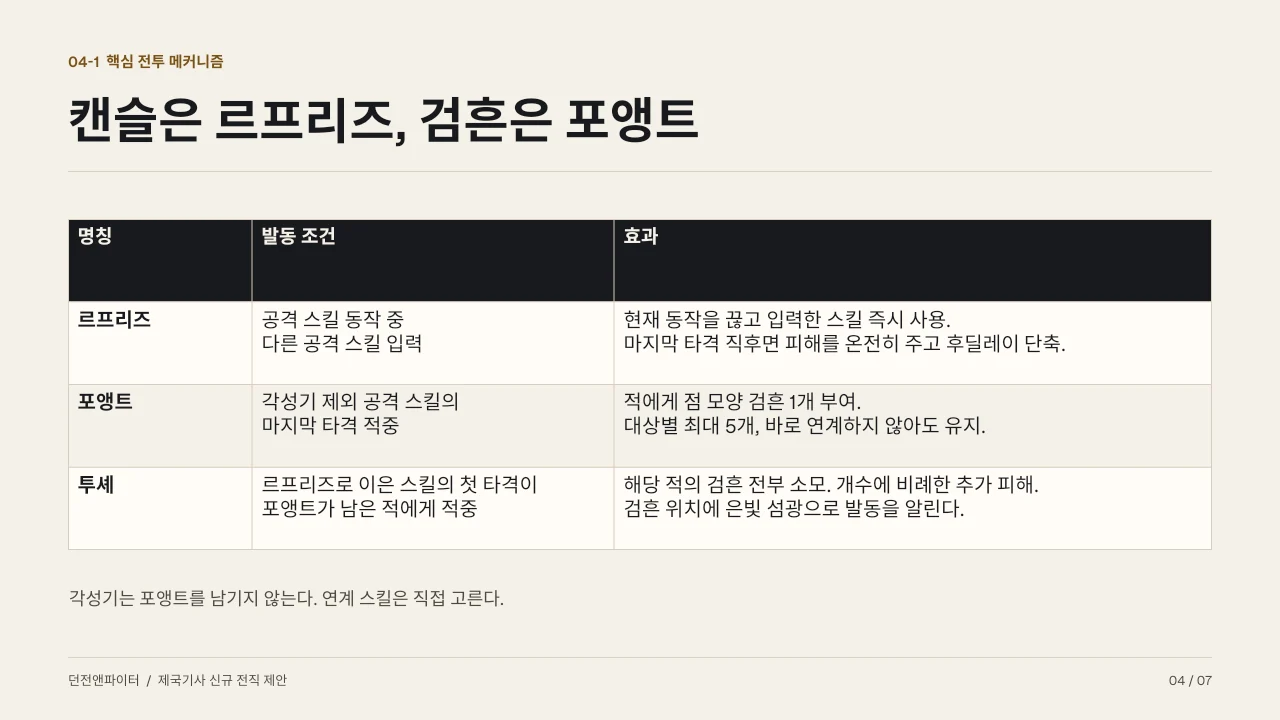
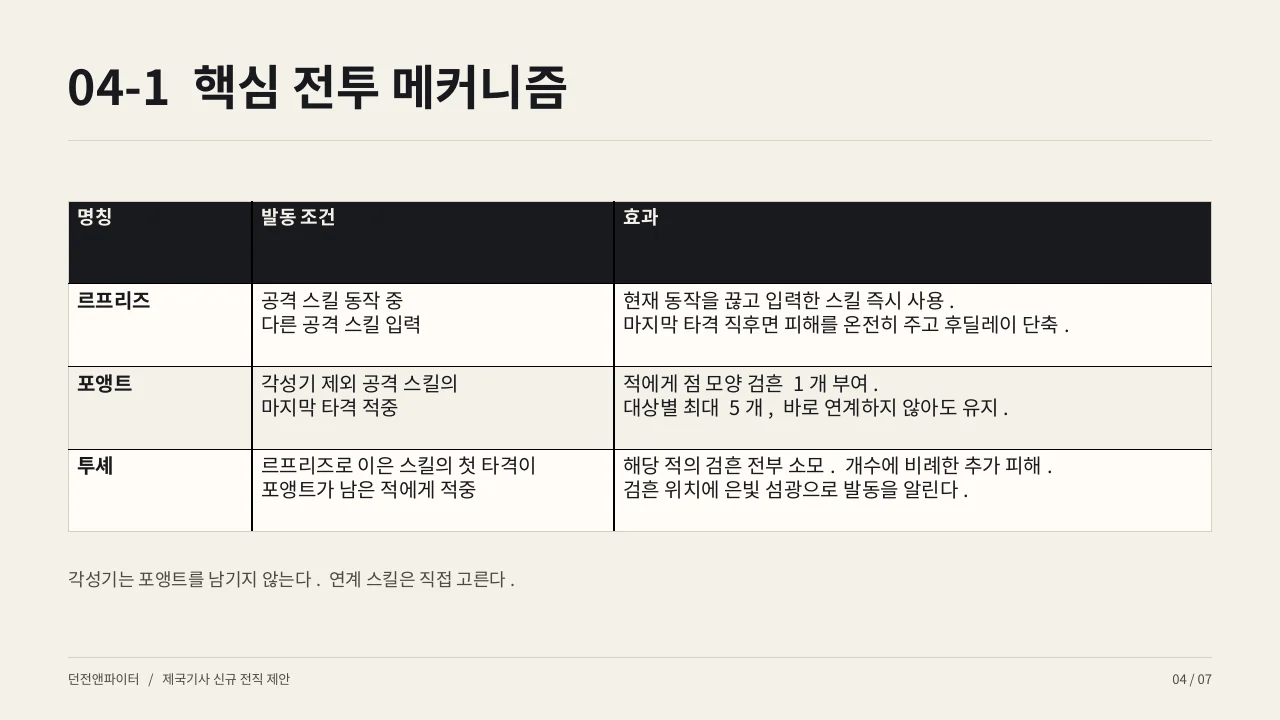
Promote chapter headings to the main slide titles

diff --git a/dnf-breaker.html b/dnf-breaker.html
@@ -16,11 +16,11 @@
   <div class="deck-heading"><div><h2>기획서 슬라이드</h2></div><p>16:9 · 총 11장</p></div>
   <div class="deck-controls" data-controls hidden>
     <button type="button" data-prev aria-label="이전 슬라이드">← 이전</button>
-    <label class="deck-jump"><span class="deck-sr">슬라이드 선택</span><select data-jump aria-label="슬라이드 선택"><option value="0">01 · 캐릭터 개요</option><option value="1">02 · 세계관과 캐릭터 콘셉트</option><option value="2">03 · 비주얼 분석</option><option value="3">04 · 무기 분석</option><option value="4">05 · 타이드 바운드</option><option value="5">06 · 웨이브 브레이커</option><option value="6">07 · 딥 워터 콜</option><option value="7">08 · 전투 콘셉트</option><option value="8">09 · 신규 전직 설계 원칙</option><option value="9">10 · 후속 전직 구상</option><option value="10">11 · 개선 제안</option></select></label>
+    <label class="deck-jump"><span class="deck-sr">슬라이드 선택</span><select data-jump aria-label="슬라이드 선택"><option value="0">01 · 캐릭터 개요</option><option value="1">02 · 세계관 및 캐릭터 콘셉트</option><option value="2">03 · 비주얼 분석</option><option value="3">04 · 무기 분석</option><option value="4">05 · 타이드 바운드</option><option value="5">06 · 웨이브 브레이커</option><option value="6">07 · 딥 워터 콜</option><option value="7">08 · 전투 콘셉트</option><option value="8">09 · 신규 전직 설계 원칙</option><option value="9">10 · 후속 전직 구상</option><option value="10">11 · 개선 제안</option></select></label>
     <button type="button" data-next aria-label="다음 슬라이드">다음 →</button>
     <output data-counter aria-live="polite">1 / 11</output>
   </div>
-  <div class="deck-pages"><article class="deck-slide" data-src="assets/slides/breaker-01.webp" data-label="캐릭터 개요" aria-label="1장 캐릭터 개요"><figure><a href="assets/slides/breaker-01.webp" target="_blank" rel="noopener" aria-label="캐릭터 개요 슬라이드 원본 이미지, 새 탭"><img src="assets/slides/breaker-01.webp" width="1280" height="720" loading="eager" decoding="async" alt="캐릭터 개요 슬라이드"></a><figcaption>01 / 캐릭터 개요</figcaption></figure><details class="deck-transcript"><summary>슬라이드 텍스트로 읽기</summary><ul><li>01  캐릭터 개요</li><li>브레이커</li><li>제국기사의 해상 돌파 전직</li><li>전투 역할</li><li>물리 퍼센트 딜러 · 주 스탯 힘</li><li>전용 무기 앵커 · 조작 난도 쉬움</li><li>분석 목적</li><li>해상 전투 설정이 무기, 스킬 동작,</li><li>플레이어 판단에 반영되는 방식을 살핀다.</li><li>브레이커   →   블랙 쉽   →   세이렌   →   眞 브레이커</li></ul></details></article><article class="deck-slide" data-src="assets/slides/breaker-02.webp" data-label="세계관과 캐릭터 콘셉트" aria-label="2장 세계관과 캐릭터 콘셉트"><figure><a href="assets/slides/breaker-02.webp" target="_blank" rel="noopener" aria-label="세계관과 캐릭터 콘셉트 슬라이드 원본 이미지, 새 탭"><img src="assets/slides/breaker-02.webp" width="1280" height="720" loading="lazy" decoding="async" alt="세계관과 캐릭터 콘셉트 슬라이드"></a><figcaption>02 / 세계관과 캐릭터 콘셉트</figcaption></figure><details class="deck-transcript"><summary>슬라이드 텍스트로 읽기</summary><ul><li>02  세계관 및 캐릭터 콘셉트</li><li>격류지대에서 익힌 해상 돌파</li><li>거센 물살과 암초가 있는 해역에서, 기회가 보이면 바로 뛰어들어 일격을 가한다.</li><li>격류지대 배치</li><li>골든 니들에 들어간 뒤</li><li>데 로스 제국의 격류지대에 배치된다.</li><li>해상 훈련</li><li>디딜 곳이 흔들리는 환경에서</li><li>해상전에 필요한 전술을 익힌다.</li><li>함선 격파</li><li>짧게 열린 기회를 놓치지 않고</li><li>강력한 일격으로 적선을 파괴한다.</li><li>제국과의 관계</li><li>상부에 충성하던 병사에서, 골든 니들 해체 뒤</li><li>자신이 바라는 제국을 위해 행동하는 기사로 바뀐다.</li><li>성격과 전투</li><li>자신감 있고 쾌활하며, 망설이기보다</li><li>적진에 직접 뛰어드는 호쾌함이 드러난다.</li></ul></details></article><article class="deck-slide" data-src="assets/slides/breaker-03.webp" data-label="비주얼 분석" aria-label="3장 비주얼 분석"><figure><a href="assets/slides/breaker-03.webp" target="_blank" rel="noopener" aria-label="비주얼 분석 슬라이드 원본 이미지, 새 탭"><img src="assets/slides/breaker-03.webp" width="1280" height="720" loading="lazy" decoding="async" alt="비주얼 분석 슬라이드"></a><figcaption>03 / 비주얼 분석</figcaption></figure><details class="deck-transcript"><summary>슬라이드 텍스트로 읽기</summary><ul><li>02  세계관 및 캐릭터 콘셉트  /  비주얼 분석</li><li>의상과 색 대비가 만드는 인상</li><li>상체 실루엣</li><li>청록 계열의 밀착 의상이 신체의 선과 자세를 드러낸다.</li><li>하체의 시각적 무게</li><li>과장된 무릎 장식이 간결한 상체와 대비된다.</li><li>색 분리</li><li>붉은 머리와 청록색 의상으로 형태가 또렷이 나뉜다.</li><li>등의 흉터</li><li>공식 설정상 제국에 바치는 맹세와 자부심을 뜻한다.</li><li>공식 원화 디자인 시트 · 외형이 전달하는 인상은 분석자의 해석</li></ul></details></article><article class="deck-slide" data-src="assets/slides/breaker-04.webp" data-label="무기 분석" aria-label="4장 무기 분석"><figure><a href="assets/slides/breaker-04.webp" target="_blank" rel="noopener" aria-label="무기 분석 슬라이드 원본 이미지, 새 탭"><img src="assets/slides/breaker-04.webp" width="1280" height="720" loading="lazy" decoding="async" alt="무기 분석 슬라이드"></a><figcaption>04 / 무기 분석</figcaption></figure><details class="deck-transcript"><summary>슬라이드 텍스트로 읽기</summary><ul><li>03  무기 분석</li><li>하나의 앵커, 두 가지 동작</li><li>CHAIN  /  사슬과 고리</li><li>몸을 끌어당겨 적에게 붙는다</li><li>BLADE  /  거대한 날</li><li>무게를 실어 넓은 범위를 벤다</li><li>무거운 무기에 어울리는 타격감을 유지하면서,</li><li>사슬을 이동에 써 다음 일격이 닿을 위치로 들어간다.</li></ul></details></article><article class="deck-slide" data-src="assets/slides/breaker-05.webp" data-label="타이드 바운드" aria-label="5장 타이드 바운드"><figure><a href="assets/slides/breaker-05.webp" target="_blank" rel="noopener" aria-label="타이드 바운드 슬라이드 원본 이미지, 새 탭"><img src="assets/slides/breaker-05.webp" width="1280" height="720" loading="lazy" decoding="async" alt="타이드 바운드 슬라이드"></a><figcaption>05 / 타이드 바운드</figcaption></figure><details class="deck-transcript"><summary>슬라이드 텍스트로 읽기</summary><ul><li>04  핵심 전투 메커니즘  /  4-1 타이드 바운드</li><li>타이드 바운드: 언제 다시 붙을 것인가</li><li>01  훅 표적과 거리 확인</li><li>02  브레이커가 표적 쪽으로 이동</li><li>03  접근 후 베기</li><li>상황에 따른 결과</li><li>멀면 표적에게 날아들고, 가까우면 제자리에서 벤다.</li><li>위 컷은 원거리 강습 예시다.</li><li>다음 강습을 앞당기는 조건</li><li>연결한 적을 공격하면 남은 쿨타임이 줄어든다.</li><li>기본형 기준 최대 4초 감소.</li></ul></details></article><article class="deck-slide" data-src="assets/slides/breaker-06.webp" data-label="웨이브 브레이커" aria-label="6장 웨이브 브레이커"><figure><a href="assets/slides/breaker-06.webp" target="_blank" rel="noopener" aria-label="웨이브 브레이커 슬라이드 원본 이미지, 새 탭"><img src="assets/slides/breaker-06.webp" width="1280" height="720" loading="lazy" decoding="async" alt="웨이브 브레이커 슬라이드"></a><figcaption>06 / 웨이브 브레이커</figcaption></figure><details class="deck-transcript"><summary>슬라이드 텍스트로 읽기</summary><ul><li>04  핵심 전투 메커니즘  /  4-2 웨이브 브레이커</li><li>웨이브 브레이커: 묵직한 광역 베기</li><li>힘을 싣는 준비 동작</li><li>힘의 범위를 보여 주는 충격파</li><li>앵커를 바닥에 박은 뒤 크게 벤다.</li><li>넓게 퍼지는 충격파가 공격 범위와</li><li>무기의 무게감을 동시에 전달한다.</li><li>다음 스킬로 전환</li><li>타격 뒤 후딜레이를 캔슬해</li><li>다른 전직 스킬로 이어갈 수 있다.</li></ul></details></article><article class="deck-slide" data-src="assets/slides/breaker-07.webp" data-label="딥 워터 콜" aria-label="7장 딥 워터 콜"><figure><a href="assets/slides/breaker-07.webp" target="_blank" rel="noopener" aria-label="딥 워터 콜 슬라이드 원본 이미지, 새 탭"><img src="assets/slides/breaker-07.webp" width="1280" height="720" loading="lazy" decoding="async" alt="딥 워터 콜 슬라이드"></a><figcaption>07 / 딥 워터 콜</figcaption></figure><details class="deck-transcript"><summary>슬라이드 텍스트로 읽기</summary><ul><li>04  핵심 전투 메커니즘  /  4-3 딥 워터 콜</li><li>딥 워터 콜: 떨어뜨린 물체도 공격 기회</li><li>범위 내 가장 강력한 적의 위치에 떨어뜨린다. 대상이 없으면 캐릭터 전방에 떨어진다.</li><li>01  화약통 낙하</li><li>포탄·화약통·닻 중 하나가 떨어진다.</li><li>02  브레이커가 물체 타격</li><li>낙하한 물체가 후속 공격 대상이 된다.</li><li>03  주변에 추가 피해</li><li>타격으로 물체의 추가 공격을 발동한다.</li></ul></details></article><article class="deck-slide" data-src="assets/slides/breaker-08.webp" data-label="전투 콘셉트" aria-label="8장 전투 콘셉트"><figure><a href="assets/slides/breaker-08.webp" target="_blank" rel="noopener" aria-label="전투 콘셉트 슬라이드 원본 이미지, 새 탭"><img src="assets/slides/breaker-08.webp" width="1280" height="720" loading="lazy" decoding="async" alt="전투 콘셉트 슬라이드"></a><figcaption>08 / 전투 콘셉트</figcaption></figure><details class="deck-transcript"><summary>슬라이드 텍스트로 읽기</summary><ul><li>04  핵심 전투 메커니즘  /  전투 콘셉트</li><li>들어갈 때와, 들어간 뒤의 판단</li><li>타이드 바운드로 접근  →  웨이브 브레이커로 주변 타격  →  다른 전직 스킬로 연계</li></ul></details></article><article class="deck-slide" data-src="assets/slides/breaker-09.webp" data-label="신규 전직 설계 원칙" aria-label="9장 신규 전직 설계 원칙"><figure><a href="assets/slides/breaker-09.webp" target="_blank" rel="noopener" aria-label="신규 전직 설계 원칙 슬라이드 원본 이미지, 새 탭"><img src="assets/slides/breaker-09.webp" width="1280" height="720" loading="lazy" decoding="async" alt="신규 전직 설계 원칙 슬라이드"></a><figcaption>09 / 신규 전직 설계 원칙</figcaption></figure><details class="deck-transcript"><summary>슬라이드 텍스트로 읽기</summary><ul><li>05  결론</li><li>신규 전직에 적용할 세 가지 원칙</li><li>브레이커에서 관찰한 사례</li><li>신규 전직 설계 원칙</li><li>딥 워터 콜의 화약통은 떨어진 뒤</li><li>브레이커가 때리면 폭발한다.</li><li>활동 지역과 임무에서 스킬 소재를 찾고,</li><li>그 소재를 플레이어가 쓸 수 있는 행동으로 설계한다.</li><li>사슬은 접근에, 앵커의 날은</li><li>접근한 뒤의 넓은 타격에 쓰인다.</li><li>무기의 각 부분이 할 수 있는 동작을 정하고,</li><li>그 동작들이 어떻게 이어질지 함께 설계한다.</li><li>타이드 바운드의 표적은 자동으로 정해지고,</li><li>플레이어가 강습할 때를 결정한다.</li><li>캐릭터 성격을 보여 주는 판단을 대표 스킬에 담는다.</li><li>브레이커의 경우 판단의 핵심은 ‘언제 뛰어들지’다.</li></ul></details></article><article class="deck-slide" data-src="assets/slides/breaker-10.webp" data-label="후속 전직 구상" aria-label="10장 후속 전직 구상"><figure><a href="assets/slides/breaker-10.webp" target="_blank" rel="noopener" aria-label="후속 전직 구상 슬라이드 원본 이미지, 새 탭"><img src="assets/slides/breaker-10.webp" width="1280" height="720" loading="lazy" decoding="async" alt="후속 전직 구상 슬라이드"></a><figcaption>10 / 후속 전직 구상</figcaption></figure><details class="deck-transcript"><summary>슬라이드 텍스트로 읽기</summary><ul><li>05  결론  /  5-1 후속 기획 아이디어</li><li>데 로스 제국의 지역별 전직 구상</li><li>쿠난데 · 반제국</li><li>북서 지역 출신의 바이킹풍 여전사.</li><li>비탈론 · 친제국</li><li>수도 출신의 귀족 엘리트 군인.</li><li>데임 · 반제국</li><li>데임 출신의 레지스탕스 계열 캐릭터.</li><li>세 안은 원문에 수록된 초기 콘셉트다.</li></ul></details></article><article class="deck-slide" data-src="assets/slides/breaker-11.webp" data-label="개선 제안" aria-label="11장 개선 제안"><figure><a href="assets/slides/breaker-11.webp" target="_blank" rel="noopener" aria-label="개선 제안 슬라이드 원본 이미지, 새 탭"><img src="assets/slides/breaker-11.webp" width="1280" height="720" loading="lazy" decoding="async" alt="개선 제안 슬라이드"></a><figcaption>11 / 개선 제안</figcaption></figure><details class="deck-transcript"><summary>슬라이드 텍스트로 읽기</summary><ul><li>부록  /  개선 제안</li><li>타이드 바운드의 이동 여부를 시전 전에 표시</li><li>기존 자동 표적 선정과 공격 동작은 유지하고, 이번 입력의 결과만 미리 알려 준다.</li><li>판단 지점</li><li>연결한 표적이 가까워지면 같은 입력이 제자리 베기로 바뀐다. 시전 전에 두 결과를 구별하기 어려운 상황이 있는지 확인한다.</li><li>제안</li><li>기존 훅 표식의 모양을 두 가지로 구분한다. 이동 가능일 때는 방향 표식, 제자리 베기일 때는 고정 표식으로 표시한다.</li><li>검증</li><li>근·원거리 및 높이 차가 있는 동일 장면에서 기존·개선 UI를 비교한다. 시전 전 예상의 정확도, 의도하지 않은 이동, 표시 과밀을 기록한다.</li><li>제안 단계 · 실제 혼동의 빈도와 개선 효과는 아직 측정하지 않았다.</li></ul></details></article></div>
+  <div class="deck-pages"><article class="deck-slide" data-src="assets/slides/breaker-01.webp?v=toc-2" data-label="캐릭터 개요" aria-label="1장 캐릭터 개요"><figure><a href="assets/slides/breaker-01.webp?v=toc-2" target="_blank" rel="noopener" aria-label="캐릭터 개요 슬라이드 원본 이미지, 새 탭"><img src="assets/slides/breaker-01.webp?v=toc-2" width="1280" height="720" loading="eager" decoding="async" alt="캐릭터 개요 슬라이드"></a><figcaption>01 / 캐릭터 개요</figcaption></figure><details class="deck-transcript"><summary>슬라이드 텍스트로 읽기</summary><ul><li>01  캐릭터 개요</li><li>브레이커</li><li>제국기사의 해상 돌파 전직</li><li>전투 역할</li><li>물리 퍼센트 딜러 · 주 스탯 힘</li><li>전용 무기 앵커 · 조작 난도 쉬움</li><li>분석 목적</li><li>해상 전투 설정이 무기, 스킬 동작,</li><li>플레이어 판단에 반영되는 방식을 살핀다.</li><li>브레이커   →   블랙 쉽   →   세이렌   →   眞 브레이커</li></ul></details></article><article class="deck-slide" data-src="assets/slides/breaker-02.webp?v=toc-2" data-label="세계관 및 캐릭터 콘셉트" aria-label="2장 세계관 및 캐릭터 콘셉트"><figure><a href="assets/slides/breaker-02.webp?v=toc-2" target="_blank" rel="noopener" aria-label="세계관 및 캐릭터 콘셉트 슬라이드 원본 이미지, 새 탭"><img src="assets/slides/breaker-02.webp?v=toc-2" width="1280" height="720" loading="lazy" decoding="async" alt="세계관 및 캐릭터 콘셉트 슬라이드"></a><figcaption>02 / 세계관 및 캐릭터 콘셉트</figcaption></figure><details class="deck-transcript"><summary>슬라이드 텍스트로 읽기</summary><ul><li>02  세계관 및 캐릭터 콘셉트</li><li>격류지대에서 익힌 해상 돌파</li><li>거센 물살과 암초가 있는 해역에서, 기회가 보이면 바로 뛰어들어 일격을 가한다.</li><li>격류지대 배치</li><li>골든 니들에 들어간 뒤</li><li>데 로스 제국의 격류지대에 배치된다.</li><li>해상 훈련</li><li>디딜 곳이 흔들리는 환경에서</li><li>해상전에 필요한 전술을 익힌다.</li><li>함선 격파</li><li>짧게 열린 기회를 놓치지 않고</li><li>강력한 일격으로 적선을 파괴한다.</li><li>제국과의 관계</li><li>상부에 충성하던 병사에서, 골든 니들 해체 뒤</li><li>자신이 바라는 제국을 위해 행동하는 기사로 바뀐다.</li><li>성격과 전투</li><li>자신감 있고 쾌활하며, 망설이기보다</li><li>적진에 직접 뛰어드는 호쾌함이 드러난다.</li></ul></details></article><article class="deck-slide" data-src="assets/slides/breaker-03.webp?v=toc-2" data-label="비주얼 분석" aria-label="3장 비주얼 분석"><figure><a href="assets/slides/breaker-03.webp?v=toc-2" target="_blank" rel="noopener" aria-label="비주얼 분석 슬라이드 원본 이미지, 새 탭"><img src="assets/slides/breaker-03.webp?v=toc-2" width="1280" height="720" loading="lazy" decoding="async" alt="비주얼 분석 슬라이드"></a><figcaption>03 / 비주얼 분석</figcaption></figure><details class="deck-transcript"><summary>슬라이드 텍스트로 읽기</summary><ul><li>02  세계관 및 캐릭터 콘셉트  /  비주얼 분석</li><li>의상과 색 대비가 만드는 인상</li><li>상체 실루엣</li><li>청록 계열의 밀착 의상이 신체의 선과 자세를 드러낸다.</li><li>하체의 시각적 무게</li><li>과장된 무릎 장식이 간결한 상체와 대비된다.</li><li>색 분리</li><li>붉은 머리와 청록색 의상으로 형태가 또렷이 나뉜다.</li><li>등의 흉터</li><li>공식 설정상 제국에 바치는 맹세와 자부심을 뜻한다.</li><li>공식 원화 디자인 시트 · 외형이 전달하는 인상은 분석자의 해석</li></ul></details></article><article class="deck-slide" data-src="assets/slides/breaker-04.webp?v=toc-2" data-label="무기 분석" aria-label="4장 무기 분석"><figure><a href="assets/slides/breaker-04.webp?v=toc-2" target="_blank" rel="noopener" aria-label="무기 분석 슬라이드 원본 이미지, 새 탭"><img src="assets/slides/breaker-04.webp?v=toc-2" width="1280" height="720" loading="lazy" decoding="async" alt="무기 분석 슬라이드"></a><figcaption>04 / 무기 분석</figcaption></figure><details class="deck-transcript"><summary>슬라이드 텍스트로 읽기</summary><ul><li>03  무기 분석</li><li>하나의 앵커, 두 가지 동작</li><li>CHAIN  /  사슬과 고리</li><li>몸을 끌어당겨 적에게 붙는다</li><li>BLADE  /  거대한 날</li><li>무게를 실어 넓은 범위를 벤다</li><li>무거운 무기에 어울리는 타격감을 유지하면서,</li><li>사슬을 이동에 써 다음 일격이 닿을 위치로 들어간다.</li></ul></details></article><article class="deck-slide" data-src="assets/slides/breaker-05.webp?v=toc-2" data-label="타이드 바운드" aria-label="5장 타이드 바운드"><figure><a href="assets/slides/breaker-05.webp?v=toc-2" target="_blank" rel="noopener" aria-label="타이드 바운드 슬라이드 원본 이미지, 새 탭"><img src="assets/slides/breaker-05.webp?v=toc-2" width="1280" height="720" loading="lazy" decoding="async" alt="타이드 바운드 슬라이드"></a><figcaption>05 / 타이드 바운드</figcaption></figure><details class="deck-transcript"><summary>슬라이드 텍스트로 읽기</summary><ul><li>04  핵심 전투 메커니즘  /  4-1 타이드 바운드</li><li>타이드 바운드: 언제 다시 붙을 것인가</li><li>01  훅 표적과 거리 확인</li><li>02  브레이커가 표적 쪽으로 이동</li><li>03  접근 후 베기</li><li>상황에 따른 결과</li><li>멀면 표적에게 날아들고, 가까우면 제자리에서 벤다.</li><li>위 컷은 원거리 강습 예시다.</li><li>다음 강습을 앞당기는 조건</li><li>연결한 적을 공격하면 남은 쿨타임이 줄어든다.</li><li>기본형 기준 최대 4초 감소.</li></ul></details></article><article class="deck-slide" data-src="assets/slides/breaker-06.webp?v=toc-2" data-label="웨이브 브레이커" aria-label="6장 웨이브 브레이커"><figure><a href="assets/slides/breaker-06.webp?v=toc-2" target="_blank" rel="noopener" aria-label="웨이브 브레이커 슬라이드 원본 이미지, 새 탭"><img src="assets/slides/breaker-06.webp?v=toc-2" width="1280" height="720" loading="lazy" decoding="async" alt="웨이브 브레이커 슬라이드"></a><figcaption>06 / 웨이브 브레이커</figcaption></figure><details class="deck-transcript"><summary>슬라이드 텍스트로 읽기</summary><ul><li>04  핵심 전투 메커니즘  /  4-2 웨이브 브레이커</li><li>웨이브 브레이커: 묵직한 광역 베기</li><li>힘을 싣는 준비 동작</li><li>힘의 범위를 보여 주는 충격파</li><li>앵커를 바닥에 박은 뒤 크게 벤다.</li><li>넓게 퍼지는 충격파가 공격 범위와</li><li>무기의 무게감을 동시에 전달한다.</li><li>다음 스킬로 전환</li><li>타격 뒤 후딜레이를 캔슬해</li><li>다른 전직 스킬로 이어갈 수 있다.</li></ul></details></article><article class="deck-slide" data-src="assets/slides/breaker-07.webp?v=toc-2" data-label="딥 워터 콜" aria-label="7장 딥 워터 콜"><figure><a href="assets/slides/breaker-07.webp?v=toc-2" target="_blank" rel="noopener" aria-label="딥 워터 콜 슬라이드 원본 이미지, 새 탭"><img src="assets/slides/breaker-07.webp?v=toc-2" width="1280" height="720" loading="lazy" decoding="async" alt="딥 워터 콜 슬라이드"></a><figcaption>07 / 딥 워터 콜</figcaption></figure><details class="deck-transcript"><summary>슬라이드 텍스트로 읽기</summary><ul><li>04  핵심 전투 메커니즘  /  4-3 딥 워터 콜</li><li>딥 워터 콜: 떨어뜨린 물체도 공격 기회</li><li>범위 내 가장 강력한 적의 위치에 떨어뜨린다. 대상이 없으면 캐릭터 전방에 떨어진다.</li><li>01  화약통 낙하</li><li>포탄·화약통·닻 중 하나가 떨어진다.</li><li>02  브레이커가 물체 타격</li><li>낙하한 물체가 후속 공격 대상이 된다.</li><li>03  주변에 추가 피해</li><li>타격으로 물체의 추가 공격을 발동한다.</li></ul></details></article><article class="deck-slide" data-src="assets/slides/breaker-08.webp?v=toc-2" data-label="전투 콘셉트" aria-label="8장 전투 콘셉트"><figure><a href="assets/slides/breaker-08.webp?v=toc-2" target="_blank" rel="noopener" aria-label="전투 콘셉트 슬라이드 원본 이미지, 새 탭"><img src="assets/slides/breaker-08.webp?v=toc-2" width="1280" height="720" loading="lazy" decoding="async" alt="전투 콘셉트 슬라이드"></a><figcaption>08 / 전투 콘셉트</figcaption></figure><details class="deck-transcript"><summary>슬라이드 텍스트로 읽기</summary><ul><li>04  핵심 전투 메커니즘  /  전투 콘셉트</li><li>들어갈 때와, 들어간 뒤의 판단</li><li>타이드 바운드로 접근  →  웨이브 브레이커로 주변 타격  →  다른 전직 스킬로 연계</li></ul></details></article><article class="deck-slide" data-src="assets/slides/breaker-09.webp?v=toc-2" data-label="신규 전직 설계 원칙" aria-label="9장 신규 전직 설계 원칙"><figure><a href="assets/slides/breaker-09.webp?v=toc-2" target="_blank" rel="noopener" aria-label="신규 전직 설계 원칙 슬라이드 원본 이미지, 새 탭"><img src="assets/slides/breaker-09.webp?v=toc-2" width="1280" height="720" loading="lazy" decoding="async" alt="신규 전직 설계 원칙 슬라이드"></a><figcaption>09 / 신규 전직 설계 원칙</figcaption></figure><details class="deck-transcript"><summary>슬라이드 텍스트로 읽기</summary><ul><li>05  결론</li><li>신규 전직에 적용할 세 가지 원칙</li><li>브레이커에서 관찰한 사례</li><li>신규 전직 설계 원칙</li><li>딥 워터 콜의 화약통은 떨어진 뒤</li><li>브레이커가 때리면 폭발한다.</li><li>활동 지역과 임무에서 스킬 소재를 찾고,</li><li>그 소재를 플레이어가 쓸 수 있는 행동으로 설계한다.</li><li>사슬은 접근에, 앵커의 날은</li><li>접근한 뒤의 넓은 타격에 쓰인다.</li><li>무기의 각 부분이 할 수 있는 동작을 정하고,</li><li>그 동작들이 어떻게 이어질지 함께 설계한다.</li><li>타이드 바운드의 표적은 자동으로 정해지고,</li><li>플레이어가 강습할 때를 결정한다.</li><li>캐릭터 성격을 보여 주는 판단을 대표 스킬에 담는다.</li><li>브레이커의 경우 판단의 핵심은 ‘언제 뛰어들지’다.</li></ul></details></article><article class="deck-slide" data-src="assets/slides/breaker-10.webp?v=toc-2" data-label="후속 전직 구상" aria-label="10장 후속 전직 구상"><figure><a href="assets/slides/breaker-10.webp?v=toc-2" target="_blank" rel="noopener" aria-label="후속 전직 구상 슬라이드 원본 이미지, 새 탭"><img src="assets/slides/breaker-10.webp?v=toc-2" width="1280" height="720" loading="lazy" decoding="async" alt="후속 전직 구상 슬라이드"></a><figcaption>10 / 후속 전직 구상</figcaption></figure><details class="deck-transcript"><summary>슬라이드 텍스트로 읽기</summary><ul><li>05  결론  /  5-1 후속 기획 아이디어</li><li>데 로스 제국의 지역별 전직 구상</li><li>쿠난데 · 반제국</li><li>북서 지역 출신의 바이킹풍 여전사.</li><li>비탈론 · 친제국</li><li>수도 출신의 귀족 엘리트 군인.</li><li>데임 · 반제국</li><li>데임 출신의 레지스탕스 계열 캐릭터.</li><li>세 안은 원문에 수록된 초기 콘셉트다.</li></ul></details></article><article class="deck-slide" data-src="assets/slides/breaker-11.webp?v=toc-2" data-label="개선 제안" aria-label="11장 개선 제안"><figure><a href="assets/slides/breaker-11.webp?v=toc-2" target="_blank" rel="noopener" aria-label="개선 제안 슬라이드 원본 이미지, 새 탭"><img src="assets/slides/breaker-11.webp?v=toc-2" width="1280" height="720" loading="lazy" decoding="async" alt="개선 제안 슬라이드"></a><figcaption>11 / 개선 제안</figcaption></figure><details class="deck-transcript"><summary>슬라이드 텍스트로 읽기</summary><ul><li>부록  /  개선 제안</li><li>타이드 바운드의 이동 여부를 시전 전에 표시</li><li>기존 자동 표적 선정과 공격 동작은 유지하고, 이번 입력의 결과만 미리 알려 준다.</li><li>판단 지점</li><li>연결한 표적이 가까워지면 같은 입력이 제자리 베기로 바뀐다. 시전 전에 두 결과를 구별하기 어려운 상황이 있는지 확인한다.</li><li>제안</li><li>기존 훅 표식의 모양을 두 가지로 구분한다. 이동 가능일 때는 방향 표식, 제자리 베기일 때는 고정 표식으로 표시한다.</li><li>검증</li><li>근·원거리 및 높이 차가 있는 동일 장면에서 기존·개선 UI를 비교한다. 시전 전 예상의 정확도, 의도하지 않은 이동, 표시 과밀을 기록한다.</li><li>제안 단계 · 실제 혼동의 빈도와 개선 효과는 아직 측정하지 않았다.</li></ul></details></article></div>
 </section>
 <div class="wrap detail-layout">
 <aside aria-label="이 페이지의 목차"><a href="#slides">기획서 슬라이드</a><a href="#overview">캐릭터 콘셉트</a><a href="#weapon">무기 분석</a><a href="#combat">핵심 전투 메커니즘</a><a href="#takeaway">정리</a></aside>

diff --git a/dnf-bounty-hunter.html b/dnf-bounty-hunter.html
@@ -14,11 +14,11 @@
   <div class="deck-heading"><div><h2>기획서 슬라이드</h2></div><p>16:9 · 총 7장</p></div>
   <div class="deck-controls" data-controls hidden>
     <button type="button" data-prev aria-label="이전 슬라이드">← 이전</button>
-    <label class="deck-jump"><span class="deck-sr">슬라이드 선택</span><select data-jump aria-label="슬라이드 선택"><option value="0">01 · 전직 개요와 기획 의도</option><option value="1">02 · 배경과 성격</option><option value="2">03 · 무기와 전투 콘셉트</option><option value="3">04 · 핵심 전투 메커니즘</option><option value="4">05 · 스킬 연계 예시</option><option value="5">06 · 각성별 콘셉트와 일러스트</option><option value="6">07 · 진 각성 일러스트</option></select></label>
+    <label class="deck-jump"><span class="deck-sr">슬라이드 선택</span><select data-jump aria-label="슬라이드 선택"><option value="0">01 · 전직 개요 및 기획 의도</option><option value="1">02 · 배경과 성격</option><option value="2">03 · 무기와 전투 콘셉트</option><option value="3">04 · 핵심 전투 메커니즘</option><option value="4">05 · 스킬 연계 예시</option><option value="5">06 · 각성별 콘셉트와 일러스트</option><option value="6">07 · 진 각성 일러스트</option></select></label>
     <button type="button" data-next aria-label="다음 슬라이드">다음 →</button>
     <output data-counter aria-live="polite">1 / 7</output>
   </div>
-  <div class="deck-pages"><article class="deck-slide" data-src="assets/slides/bounty-01.webp" data-label="전직 개요와 기획 의도" aria-label="1장 전직 개요와 기획 의도"><figure><a href="assets/slides/bounty-01.webp" target="_blank" rel="noopener" aria-label="전직 개요와 기획 의도 슬라이드 원본 이미지, 새 탭"><img src="assets/slides/bounty-01.webp" width="1280" height="720" loading="eager" decoding="async" alt="전직 개요와 기획 의도 슬라이드"></a><figcaption>01 / 전직 개요와 기획 의도</figcaption></figure><details class="deck-transcript"><summary>슬라이드 텍스트로 읽기</summary><ul><li>01  전직 개요 및 기획 의도</li><li>기본 피해는 그대로, 연계로 더 강하게</li><li>연계 타이밍이 숙련도를 가른다</li><li>처음에는 익숙한 공격으로 각 스킬의 기본 피해를 낼 수 있다.</li><li>숙련되면 마지막 타격 직후 후딜레이를 끊어 같은 기회에 더 많은 피해를 줄 수 있다.</li><li>전직</li><li>바운티헌터</li><li>주 무기</li><li>레이피어</li><li>플레이 핵심</li><li>마지막 타격 직후 연계</li><li>던전앤파이터  /  제국기사 신규 전직 제안</li></ul></details></article><article class="deck-slide" data-src="assets/slides/bounty-02.webp" data-label="배경과 성격" aria-label="2장 배경과 성격"><figure><a href="assets/slides/bounty-02.webp" target="_blank" rel="noopener" aria-label="배경과 성격 슬라이드 원본 이미지, 새 탭"><img src="assets/slides/bounty-02.webp" width="1280" height="720" loading="lazy" decoding="async" alt="배경과 성격 슬라이드"></a><figcaption>02 / 배경과 성격</figcaption></figure><details class="deck-transcript"><summary>슬라이드 텍스트로 읽기</summary><ul><li>02  배경과 성격</li><li>제국이 놓친 수배자를 쫓는 기사</li><li>착안점</li><li>제국기사 PV 속 짧은 추격이</li><li>한 기사의 평생 임무가 된다면?</li><li>배경</li><li>데 로스의 귀족 가문 출신이지만, 가문보다 맡은 임무를 중시한다.</li><li>골든 니들에서 처음 도주한 수배자를 생포한 뒤</li><li>제국이 현상금을 건 도망자와 반역 혐의자를 추적한다.</li><li>던전앤파이터  /  제국기사 신규 전직 제안</li></ul></details></article><article class="deck-slide" data-src="assets/slides/bounty-03.webp" data-label="무기와 전투 콘셉트" aria-label="3장 무기와 전투 콘셉트"><figure><a href="assets/slides/bounty-03.webp" target="_blank" rel="noopener" aria-label="무기와 전투 콘셉트 슬라이드 원본 이미지, 새 탭"><img src="assets/slides/bounty-03.webp" width="1280" height="720" loading="lazy" decoding="async" alt="무기와 전투 콘셉트 슬라이드"></a><figcaption>03 / 무기와 전투 콘셉트</figcaption></figure><details class="deck-transcript"><summary>슬라이드 텍스트로 읽기</summary><ul><li>03  무기와 전투 콘셉트</li><li>레이피어로 짧은 빈틈을 몰아친다</li><li>형태 참고  /  기획서 수록 이미지</li><li>무기</li><li>가벼운 추적, 빠른 발검</li><li>허리춤에 차고 움직이다 표적을 따라잡으면</li><li>즉시 뽑아 찌르고 다음 공격으로 이어간다.</li><li>전투</li><li>회수 동작을 끊는 연격</li><li>르프리즈로 검을 거두는 동작을 끊는다.</li><li>이어 쓸 공격의 순서는 플레이어가 정한다.</li><li>던전앤파이터  /  제국기사 신규 전직 제안</li></ul></details></article><article class="deck-slide" data-src="assets/slides/bounty-04.webp" data-label="핵심 전투 메커니즘" aria-label="4장 핵심 전투 메커니즘"><figure><a href="assets/slides/bounty-04.webp" target="_blank" rel="noopener" aria-label="핵심 전투 메커니즘 슬라이드 원본 이미지, 새 탭"><img src="assets/slides/bounty-04.webp" width="1280" height="720" loading="lazy" decoding="async" alt="핵심 전투 메커니즘 슬라이드"></a><figcaption>04 / 핵심 전투 메커니즘</figcaption></figure><details class="deck-transcript"><summary>슬라이드 텍스트로 읽기</summary><ul><li>04-1  핵심 전투 메커니즘</li><li>캔슬은 르프리즈, 검흔은 포앵트</li><li>명칭</li><li>발동 조건</li><li>효과</li><li>르프리즈</li><li>공격 스킬 동작 중</li><li>다른 공격 스킬 입력</li><li>현재 동작을 끊고 입력한 스킬 즉시 사용.</li><li>마지막 타격 직후면 피해를 온전히 주고 후딜레이 단축.</li><li>포앵트</li><li>각성기 제외 공격 스킬의</li><li>마지막 타격 적중</li><li>적에게 점 모양 검흔 1개 부여.</li><li>대상별 최대 5개, 바로 연계하지 않아도 유지.</li><li>투셰</li><li>르프리즈로 이은 스킬의 첫 타격이</li><li>포앵트가 남은 적에게 적중</li><li>해당 적의 검흔 전부 소모. 개수에 비례한 추가 피해.</li><li>검흔 위치에 은빛 섬광으로 발동을 알린다.</li><li>각성기는 포앵트를 남기지 않는다. 연계 스킬은 직접 고른다.</li><li>던전앤파이터  /  제국기사 신규 전직 제안</li></ul></details></article><article class="deck-slide" data-src="assets/slides/bounty-05.webp" data-label="스킬 연계 예시" aria-label="5장 스킬 연계 예시"><figure><a href="assets/slides/bounty-05.webp" target="_blank" rel="noopener" aria-label="스킬 연계 예시 슬라이드 원본 이미지, 새 탭"><img src="assets/slides/bounty-05.webp" width="1280" height="720" loading="lazy" decoding="async" alt="스킬 연계 예시 슬라이드"></a><figcaption>05 / 스킬 연계 예시</figcaption></figure><details class="deck-transcript"><summary>슬라이드 텍스트로 읽기</summary><ul><li>04-2  스킬 연계 예시</li><li>마지막 타격을 보고, 다음 스킬을 잇는다</li><li>새긴다</li><li>공격 스킬의 마지막 타격</li><li>포앵트 1개 부여</li><li>끊는다</li><li>후딜레이 중 다른 공격 입력</li><li>르프리즈 1회 소모</li><li>터뜨린다</li><li>같은 적에 다음 스킬 첫 타격</li><li>검흔 전부 소모 · 투셰 추가 피해</li><li>기획서 수록 참고 이미지</li><li>머슬시프트 등 기존 게임 예시</li><li>바운티헌터 인게임 캡처 아님</li><li>던전앤파이터  /  제국기사 신규 전직 제안</li></ul></details></article><article class="deck-slide" data-src="assets/slides/bounty-06.webp" data-label="각성별 콘셉트와 일러스트" aria-label="6장 각성별 콘셉트와 일러스트"><figure><a href="assets/slides/bounty-06.webp" target="_blank" rel="noopener" aria-label="각성별 콘셉트와 일러스트 슬라이드 원본 이미지, 새 탭"><img src="assets/slides/bounty-06.webp" width="1280" height="720" loading="lazy" decoding="async" alt="각성별 콘셉트와 일러스트 슬라이드"></a><figcaption>06 / 각성별 콘셉트와 일러스트</figcaption></figure><details class="deck-transcript"><summary>슬라이드 텍스트로 읽기</summary><ul><li>05  각성별 콘셉트와 일러스트</li><li>전직에서 진 각성까지</li><li>전직 / 1차 각성</li><li>바운티헌터 / 블러드하운드</li><li>2차 각성</li><li>언리쉬드</li><li>진 각성</li><li>眞 바운티헌터</li><li>일러스트 미등록</li><li>현재 기획서 기준</li><li>던전앤파이터  /  제국기사 신규 전직 제안</li></ul></details></article><article class="deck-slide" data-src="assets/slides/bounty-07.webp" data-label="진 각성 일러스트" aria-label="7장 진 각성 일러스트"><figure><a href="assets/slides/bounty-07.webp" target="_blank" rel="noopener" aria-label="진 각성 일러스트 슬라이드 원본 이미지, 새 탭"><img src="assets/slides/bounty-07.webp" width="1280" height="720" loading="lazy" decoding="async" alt="진 각성 일러스트 슬라이드"></a><figcaption>07 / 진 각성 일러스트</figcaption></figure><details class="deck-transcript"><summary>슬라이드 텍스트로 읽기</summary><ul><li>05  각성별 콘셉트와 일러스트</li><li>眞 바운티헌터</li><li>레이피어 한 자루로</li><li>빈틈을 놓치지 않는 연격.</li><li>Notion 기획서 수록 일러스트</li><li>던전앤파이터  /  제국기사 신규 전직 제안</li></ul></details></article></div>
+  <div class="deck-pages"><article class="deck-slide" data-src="assets/slides/bounty-01.webp?v=toc-2" data-label="전직 개요 및 기획 의도" aria-label="1장 전직 개요 및 기획 의도"><figure><a href="assets/slides/bounty-01.webp?v=toc-2" target="_blank" rel="noopener" aria-label="전직 개요 및 기획 의도 슬라이드 원본 이미지, 새 탭"><img src="assets/slides/bounty-01.webp?v=toc-2" width="1280" height="720" loading="eager" decoding="async" alt="전직 개요 및 기획 의도 슬라이드"></a><figcaption>01 / 전직 개요 및 기획 의도</figcaption></figure><details class="deck-transcript"><summary>슬라이드 텍스트로 읽기</summary><ul><li>01  전직 개요 및 기획 의도</li><li>기본 피해는 그대로, 연계로 더 강하게</li><li>연계 타이밍이 숙련도를 가른다</li><li>처음에는 익숙한 공격으로 각 스킬의 기본 피해를 낼 수 있다.</li><li>숙련되면 마지막 타격 직후 후딜레이를 끊어 같은 기회에 더 많은 피해를 줄 수 있다.</li><li>전직</li><li>바운티헌터</li><li>주 무기</li><li>레이피어</li><li>플레이 핵심</li><li>마지막 타격 직후 연계</li><li>던전앤파이터  /  제국기사 신규 전직 제안</li></ul></details></article><article class="deck-slide" data-src="assets/slides/bounty-02.webp?v=toc-2" data-label="배경과 성격" aria-label="2장 배경과 성격"><figure><a href="assets/slides/bounty-02.webp?v=toc-2" target="_blank" rel="noopener" aria-label="배경과 성격 슬라이드 원본 이미지, 새 탭"><img src="assets/slides/bounty-02.webp?v=toc-2" width="1280" height="720" loading="lazy" decoding="async" alt="배경과 성격 슬라이드"></a><figcaption>02 / 배경과 성격</figcaption></figure><details class="deck-transcript"><summary>슬라이드 텍스트로 읽기</summary><ul><li>02  배경과 성격</li><li>제국이 놓친 수배자를 쫓는 기사</li><li>착안점</li><li>제국기사 PV 속 짧은 추격이</li><li>한 기사의 평생 임무가 된다면?</li><li>배경</li><li>데 로스의 귀족 가문 출신이지만, 가문보다 맡은 임무를 중시한다.</li><li>골든 니들에서 처음 도주한 수배자를 생포한 뒤</li><li>제국이 현상금을 건 도망자와 반역 혐의자를 추적한다.</li><li>던전앤파이터  /  제국기사 신규 전직 제안</li></ul></details></article><article class="deck-slide" data-src="assets/slides/bounty-03.webp?v=toc-2" data-label="무기와 전투 콘셉트" aria-label="3장 무기와 전투 콘셉트"><figure><a href="assets/slides/bounty-03.webp?v=toc-2" target="_blank" rel="noopener" aria-label="무기와 전투 콘셉트 슬라이드 원본 이미지, 새 탭"><img src="assets/slides/bounty-03.webp?v=toc-2" width="1280" height="720" loading="lazy" decoding="async" alt="무기와 전투 콘셉트 슬라이드"></a><figcaption>03 / 무기와 전투 콘셉트</figcaption></figure><details class="deck-transcript"><summary>슬라이드 텍스트로 읽기</summary><ul><li>03  무기와 전투 콘셉트</li><li>레이피어로 짧은 빈틈을 몰아친다</li><li>형태 참고  /  기획서 수록 이미지</li><li>무기</li><li>가벼운 추적, 빠른 발검</li><li>허리춤에 차고 움직이다 표적을 따라잡으면</li><li>즉시 뽑아 찌르고 다음 공격으로 이어간다.</li><li>전투</li><li>회수 동작을 끊는 연격</li><li>르프리즈로 검을 거두는 동작을 끊는다.</li><li>이어 쓸 공격의 순서는 플레이어가 정한다.</li><li>던전앤파이터  /  제국기사 신규 전직 제안</li></ul></details></article><article class="deck-slide" data-src="assets/slides/bounty-04.webp?v=toc-2" data-label="핵심 전투 메커니즘" aria-label="4장 핵심 전투 메커니즘"><figure><a href="assets/slides/bounty-04.webp?v=toc-2" target="_blank" rel="noopener" aria-label="핵심 전투 메커니즘 슬라이드 원본 이미지, 새 탭"><img src="assets/slides/bounty-04.webp?v=toc-2" width="1280" height="720" loading="lazy" decoding="async" alt="핵심 전투 메커니즘 슬라이드"></a><figcaption>04 / 핵심 전투 메커니즘</figcaption></figure><details class="deck-transcript"><summary>슬라이드 텍스트로 읽기</summary><ul><li>04-1  핵심 전투 메커니즘</li><li>캔슬은 르프리즈, 검흔은 포앵트</li><li>명칭</li><li>발동 조건</li><li>효과</li><li>르프리즈</li><li>공격 스킬 동작 중</li><li>다른 공격 스킬 입력</li><li>현재 동작을 끊고 입력한 스킬 즉시 사용.</li><li>마지막 타격 직후면 피해를 온전히 주고 후딜레이 단축.</li><li>포앵트</li><li>각성기 제외 공격 스킬의</li><li>마지막 타격 적중</li><li>적에게 점 모양 검흔 1개 부여.</li><li>대상별 최대 5개, 바로 연계하지 않아도 유지.</li><li>투셰</li><li>르프리즈로 이은 스킬의 첫 타격이</li><li>포앵트가 남은 적에게 적중</li><li>해당 적의 검흔 전부 소모. 개수에 비례한 추가 피해.</li><li>검흔 위치에 은빛 섬광으로 발동을 알린다.</li><li>각성기는 포앵트를 남기지 않는다. 연계 스킬은 직접 고른다.</li><li>던전앤파이터  /  제국기사 신규 전직 제안</li></ul></details></article><article class="deck-slide" data-src="assets/slides/bounty-05.webp?v=toc-2" data-label="스킬 연계 예시" aria-label="5장 스킬 연계 예시"><figure><a href="assets/slides/bounty-05.webp?v=toc-2" target="_blank" rel="noopener" aria-label="스킬 연계 예시 슬라이드 원본 이미지, 새 탭"><img src="assets/slides/bounty-05.webp?v=toc-2" width="1280" height="720" loading="lazy" decoding="async" alt="스킬 연계 예시 슬라이드"></a><figcaption>05 / 스킬 연계 예시</figcaption></figure><details class="deck-transcript"><summary>슬라이드 텍스트로 읽기</summary><ul><li>04-2  스킬 연계 예시</li><li>마지막 타격을 보고, 다음 스킬을 잇는다</li><li>새긴다</li><li>공격 스킬의 마지막 타격</li><li>포앵트 1개 부여</li><li>끊는다</li><li>후딜레이 중 다른 공격 입력</li><li>르프리즈 1회 소모</li><li>터뜨린다</li><li>같은 적에 다음 스킬 첫 타격</li><li>검흔 전부 소모 · 투셰 추가 피해</li><li>기획서 수록 참고 이미지</li><li>머슬시프트 등 기존 게임 예시</li><li>바운티헌터 인게임 캡처 아님</li><li>던전앤파이터  /  제국기사 신규 전직 제안</li></ul></details></article><article class="deck-slide" data-src="assets/slides/bounty-06.webp?v=toc-2" data-label="각성별 콘셉트와 일러스트" aria-label="6장 각성별 콘셉트와 일러스트"><figure><a href="assets/slides/bounty-06.webp?v=toc-2" target="_blank" rel="noopener" aria-label="각성별 콘셉트와 일러스트 슬라이드 원본 이미지, 새 탭"><img src="assets/slides/bounty-06.webp?v=toc-2" width="1280" height="720" loading="lazy" decoding="async" alt="각성별 콘셉트와 일러스트 슬라이드"></a><figcaption>06 / 각성별 콘셉트와 일러스트</figcaption></figure><details class="deck-transcript"><summary>슬라이드 텍스트로 읽기</summary><ul><li>05  각성별 콘셉트와 일러스트</li><li>전직에서 진 각성까지</li><li>전직 / 1차 각성</li><li>바운티헌터 / 블러드하운드</li><li>2차 각성</li><li>언리쉬드</li><li>진 각성</li><li>眞 바운티헌터</li><li>일러스트 미등록</li><li>현재 기획서 기준</li><li>던전앤파이터  /  제국기사 신규 전직 제안</li></ul></details></article><article class="deck-slide" data-src="assets/slides/bounty-07.webp?v=toc-2" data-label="진 각성 일러스트" aria-label="7장 진 각성 일러스트"><figure><a href="assets/slides/bounty-07.webp?v=toc-2" target="_blank" rel="noopener" aria-label="진 각성 일러스트 슬라이드 원본 이미지, 새 탭"><img src="assets/slides/bounty-07.webp?v=toc-2" width="1280" height="720" loading="lazy" decoding="async" alt="진 각성 일러스트 슬라이드"></a><figcaption>07 / 진 각성 일러스트</figcaption></figure><details class="deck-transcript"><summary>슬라이드 텍스트로 읽기</summary><ul><li>05  각성별 콘셉트와 일러스트</li><li>眞 바운티헌터</li><li>레이피어 한 자루로</li><li>빈틈을 놓치지 않는 연격.</li><li>Notion 기획서 수록 일러스트</li><li>던전앤파이터  /  제국기사 신규 전직 제안</li></ul></details></article></div>
 </section>
 <div class="wrap detail-layout">
 <aside aria-label="이 페이지의 목차"><a href="#slides">기획서 슬라이드</a><a href="#overview">기획 의도</a><a href="#evidence">원본 기획서</a></aside>

diff --git a/index.html b/index.html
@@ -55,7 +55,7 @@
         <div class="case-top"><div><h3><a href="dnf-breaker.html">브레이커 역기획서</a></h3></div></div>
         <div class="case-layout">
           <figure class="case-visual">
-            <a href="dnf-breaker.html#slides"><img src="assets/slides/breaker-05.webp" alt="타이드 바운드가 원거리 표적에 접근한 뒤 베기까지 이어지는 세 장면" width="1280" height="720" decoding="async" loading="lazy"></a>
+            <a href="dnf-breaker.html#slides"><img src="assets/slides/breaker-05.webp?v=toc-2" alt="타이드 바운드가 원거리 표적에 접근한 뒤 베기까지 이어지는 세 장면" width="1280" height="720" decoding="async" loading="lazy"></a>
             <figcaption>타이드 바운드 원거리 강습 분석</figcaption>
           </figure>
           <div class="case-copy">
